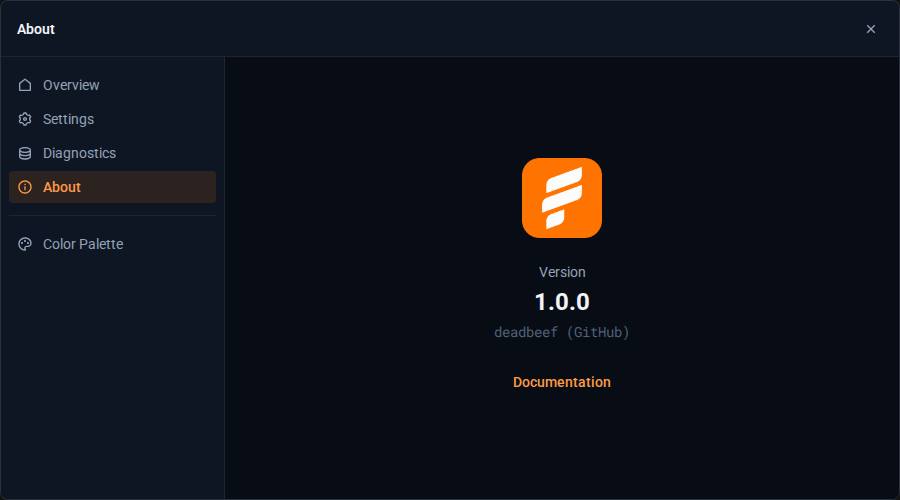
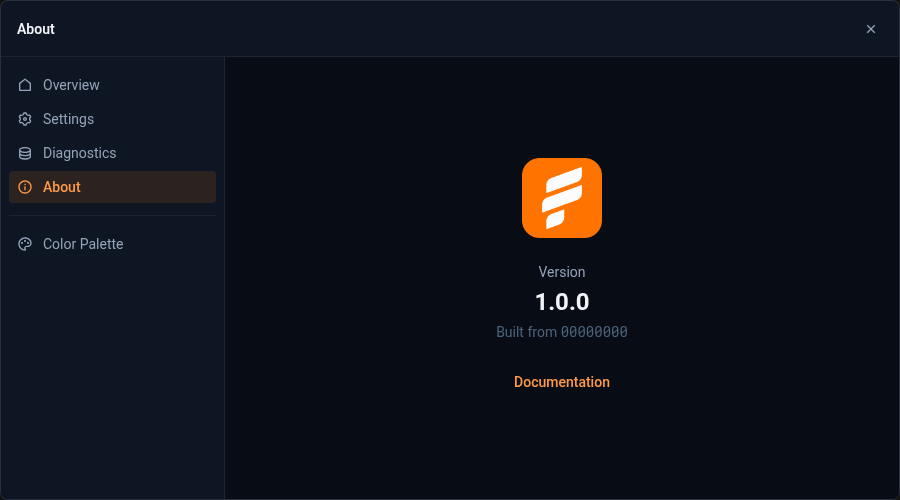
refactor(gui-client): label the build source commit

diff --git a/rust/gui-client/src-frontend/components/AboutPage.tsx b/rust/gui-client/src-frontend/components/AboutPage.tsx
@@ -23,14 +23,15 @@ export default function AboutPage() {
         <p className="mb-1 text-2xl font-bold text-heading">
           <span>{__APP_VERSION__}</span>
         </p>
-        <p className="mb-6 font-mono text-sm text-subtle">
+        <p className="mb-6 text-sm text-subtle">
+          Built from{" "}
           <button
-            className="hover:text-brand hover:underline"
+            className="font-mono hover:text-brand hover:underline"
             onClick={openCommit}
             role="link"
             type="button"
           >
-            {__GIT_VERSION__.substring(0, 8)} (GitHub)
+            {__GIT_VERSION__.substring(0, 8)}
           </button>
         </p>
         <button

diff --git a/rust/gui-client/vitest.config.ts b/rust/gui-client/vitest.config.ts
@@ -21,7 +21,9 @@ export default mergeConfig(
     // move its image on every push.
     define: {
       __APP_VERSION__: JSON.stringify("1.0.0"),
-      __GIT_VERSION__: JSON.stringify("deadbeef"),
+      __GIT_VERSION__: JSON.stringify(
+        "0000000000000000000000000000000000000000"
+      ),
     },
 
     test: {
